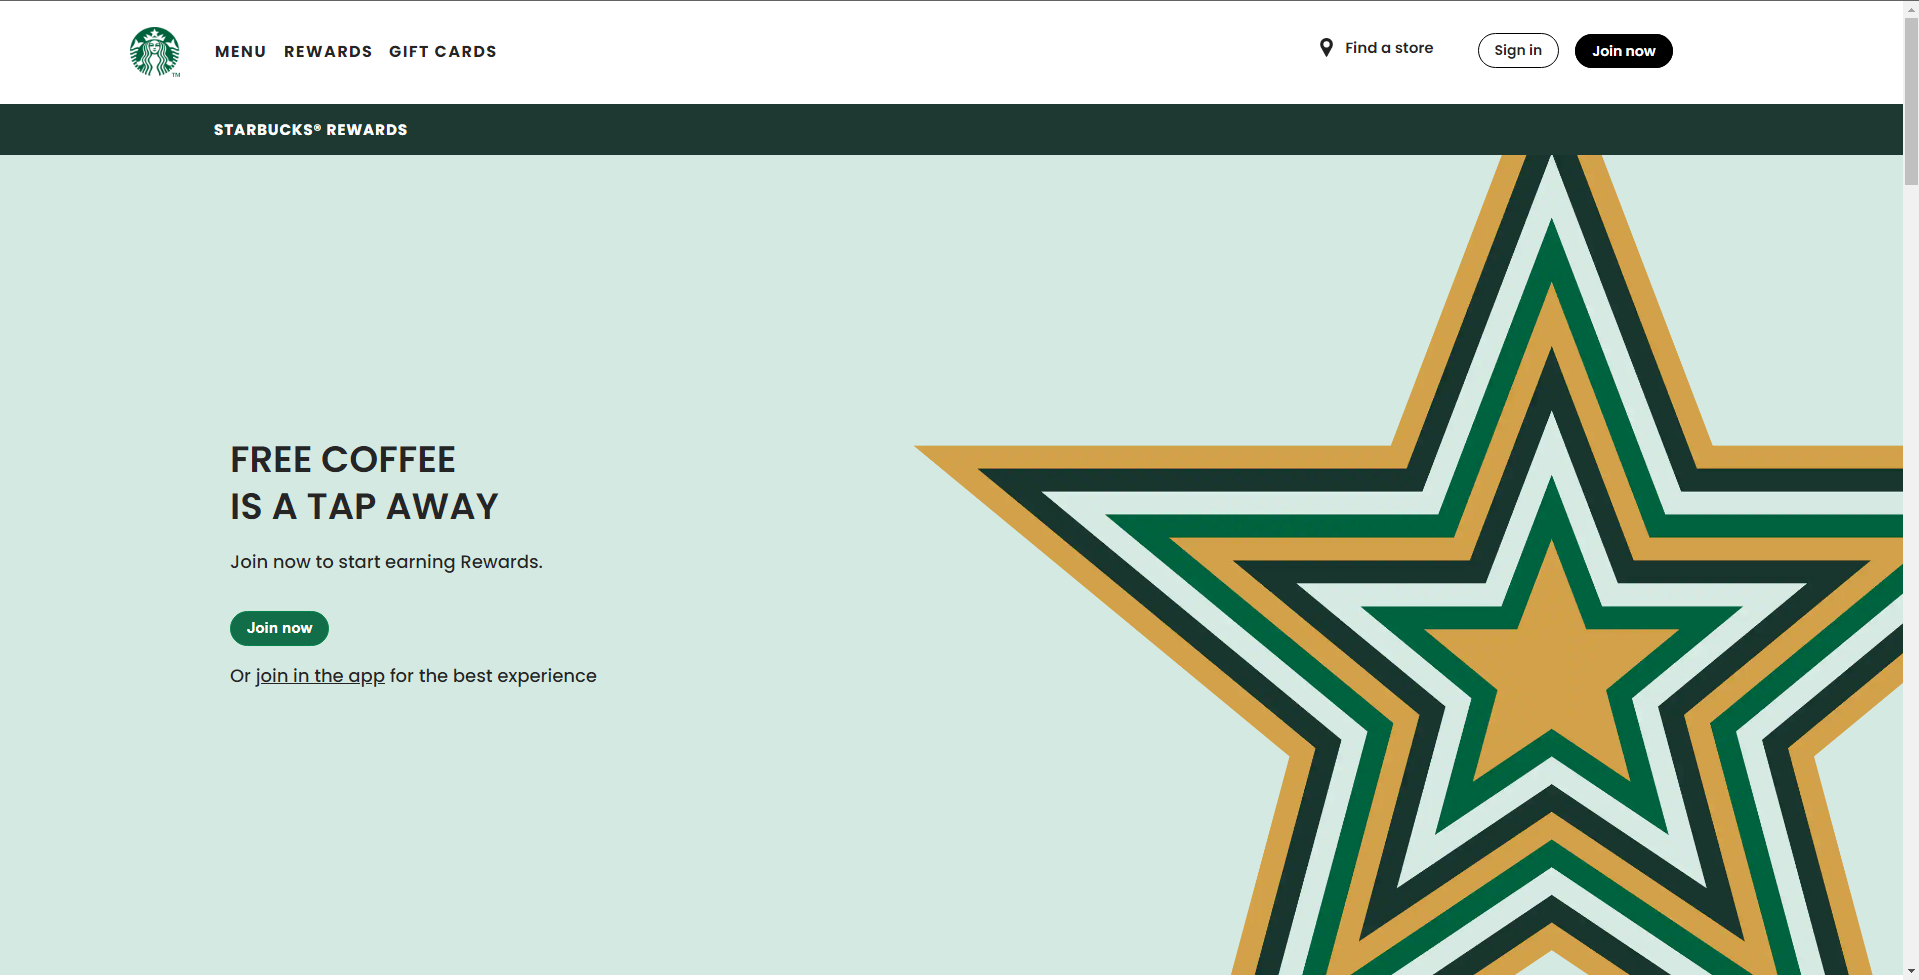
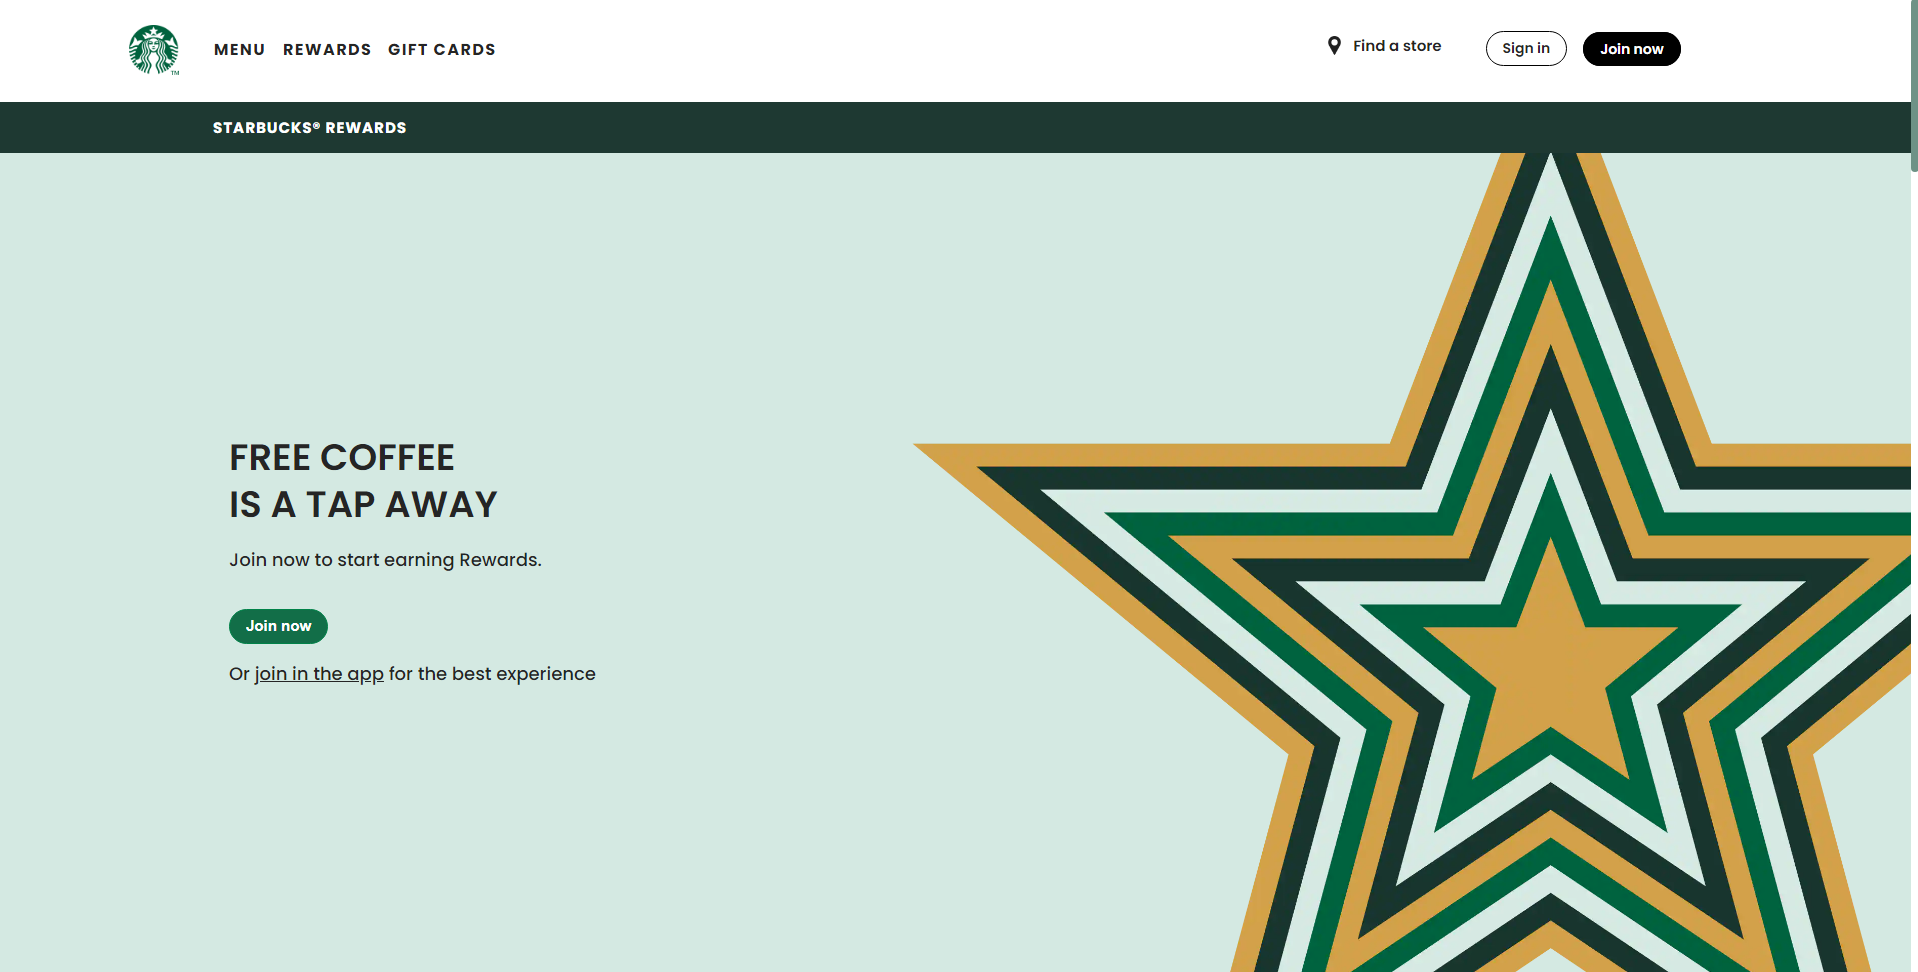
modificando preview

diff --git a/css/reset.css b/css/reset.css
@@ -6,3 +6,15 @@
     border: 0;
     text-decoration: none;
 }
+
+::-webkit-scrollbar {
+    width: 8px;
+    
+}
+::-webkit-scrollbar-track {
+    background-color: #FFFFFF;
+}
+::-webkit-scrollbar-thumb {
+    background-color: #6e9286;
+    border-radius: 5px;
+}
